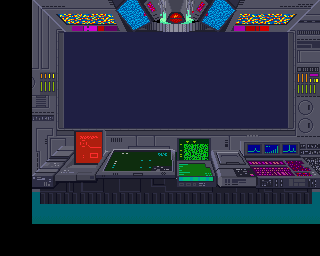
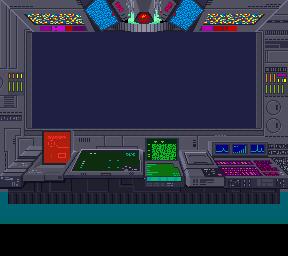
title screen appearing with aligned HUD

diff --git a/assets/amiga/convert_graphics.py b/assets/amiga/convert_graphics.py
@@ -297,7 +297,8 @@ all_tile_cluts = False
 sprite_cluts = {}
 fg_tile_cluts = {}
 
-total_nb_colors = 64
+nb_bg_layer_planes = 6
+total_nb_colors = 1<<nb_bg_layer_planes
 
 read_used_tiles("hud_used_tiles",fg_tile_cluts,FG_NB_TILES,FG_NB_CLUTS)
 
@@ -550,6 +551,7 @@ if dump_it:
 
 
 
+title_layers = Image.open(sheets_path / "title_layers.png")
 
 #sprite_sheet_dict = {i:img for i,img in enumerate(generate_tiles.doit_sprites_16x16())}
 fg_tile_sheet_dict = {i:img for i,img in enumerate(generate_tiles.doit_hud_tiles())}
@@ -651,6 +653,7 @@ for i,tsd in bg_tile_sheet_dict.items():
     bg1_tile_set_list.append(tile_set)
     bg_tile_palette.update(tp)
 
+bg_tile_palette.update(bitplanelib.palette_extract(title_layers))
 ##
 ##sprite_set_list = []
 ##for i,tsd in sprite_sheet_dict.items():
@@ -681,7 +684,7 @@ if len(bg_tile_palette)>total_nb_colors:
     apply_color_replacement(bg0_tile_set_list,sprite_replacement_dict)
     apply_color_replacement(bg1_tile_set_list,sprite_replacement_dict)
     #apply_color_replacement(sprite_set_list,sprite_replacement_dict)
-
+    bitplanelib.replace_color_from_dict(title_layers,sprite_replacement_dict)
 
 # pad if needed
 #bg_tile_palette.remove(magenta)
@@ -734,6 +737,8 @@ fg_tile_table,_ = read_tileset(fg_tile_set_list,fg_tile_palette,[True,False,Fals
 
 #sprite_table,_ = read_tileset(sprite_set_list,bg_tile_palette,[True,False,False,False],cache=bob_plane_cache, is_bob=True, mask_color=magenta, nb_cluts=SPRITE_NB_CLUTS)
 
+title_raw = bitplanelib.palette_image2raw(title_layers,None,bg_tile_palette)
+title_raw_plane_len = len(title_raw)//nb_bg_layer_planes
 
 
 with open(src_dir / "palette.68k","w") as f:
@@ -783,6 +788,7 @@ fg_tile_table = fg_tile_table
 
 with open(src_dir / "graphics.68k","w") as f:
     f.write(generated_message)
+    f.write("\t.global\ttitle_pic\n")
     f.write("\t.global\tfg_character_table\n")
     f.write("\t.global\tbg0_character_table\n")
     f.write("\t.global\tbg1_character_table\n")
@@ -807,9 +813,18 @@ with open(src_dir / "graphics.68k","w") as f:
         f.write(f"bg_tile_plane_{v:02d}:")
         dump_asm_bytes(k,f)
 
+    f.write("title_pic:\n")
+    for i in range(nb_bg_layer_planes):
+        f.write(f"\t.long\ttitle_pic_plane_{i}\n")
+
     f.write("shared_bob_table:\n")
 ##    dump_bob_layer(sprite_table,f)
 
+    f.write("\t.section\t.datachip\n")
+
+    for i in range(nb_bg_layer_planes):
+        f.write(f"title_pic_plane_{i}:\n")
+        bitplanelib.dump_asm_bytes(title_raw[i*title_raw_plane_len:(i+1)*title_raw_plane_len],f,mit_format=True)
 
 
 

diff --git a/assets/amiga/merge_layers.py b/assets/amiga/merge_layers.py
@@ -15,7 +15,7 @@ Crop modes:
     --full       no crop, keep the whole 512x256 tilemap
 """
 
-# working setup: ..\amiga\merge_layers.py --rect 0,24,320,256 -o title_layers.png title_layer_0.png title_layer_2.png
+# working setup: ..\amiga\merge_layers.py --rect 32,24,288,256 -o title_layers.png title_layer_0.png title_layer_2.png
 import argparse
 import pathlib
 
